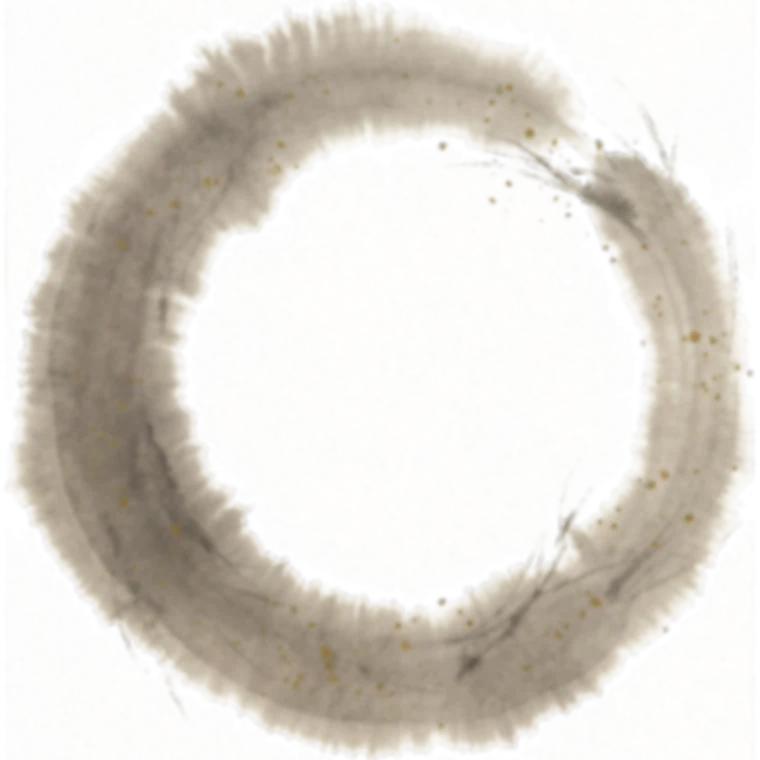
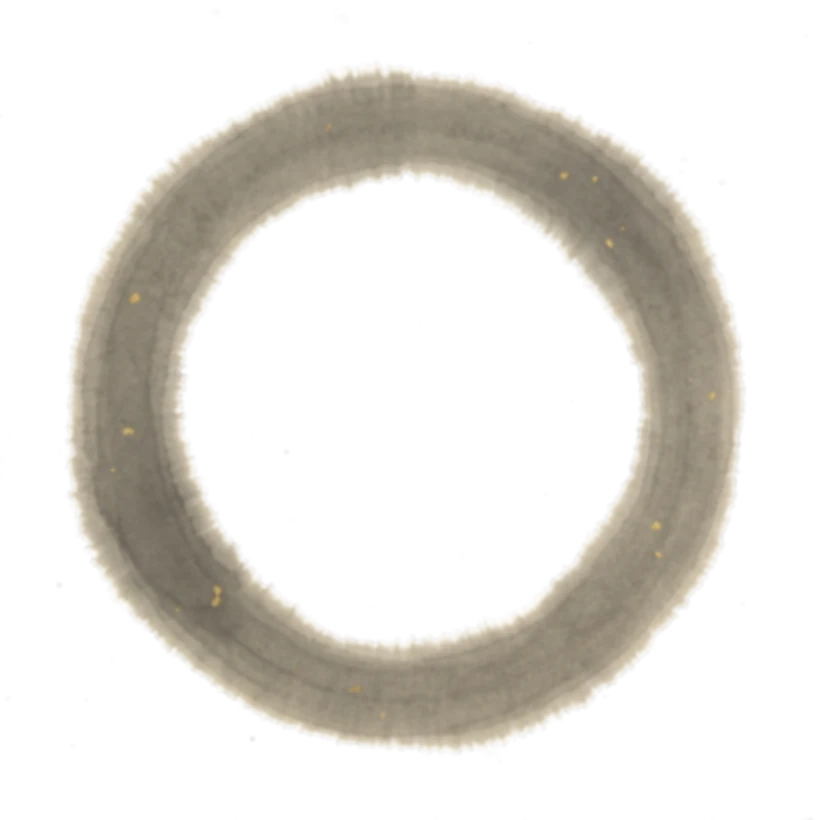
Hub redesign: 3-column layout — reach steps, Asian column divider, globe right
- New three-column layout: left = 217 Products logo + numbered reach steps
  (1/2/3) each with a straight HGF sumi brush arrow (assets/reach-arrow-
  straight.webp) and label; centre = an HGF East-Asian temple column
  divider (assets/hub-column.webp); right = the enlarged 3D globe.
- Removed scroll pinning earlier; globe auto-rotates and is drag-spun.
- Halo regenerated complete + denser and made more opaque so it wraps the
  whole globe (fixes the open right side).
- Steps reveal staggered on enter; mobile stacks (panel then globe, column
  divider hidden).

diff --git a/style.css b/style.css
@@ -158,22 +158,39 @@ section { padding: clamp(96px, 15vh, 210px) var(--pad); position: relative; }
 }
 .brighten .w { color: var(--ink-dim); transition: color 0.1s linear; }
 
-/* ---------- 4 · pinned globe (our reach) ---------- */
+/* ---------- 4 · globe · our reach (3-column) ---------- */
 .hub { padding: 0; }
-.hub-pin {
-  position: relative; height: 100svh; min-height: 600px;
-  display: flex; flex-direction: column; align-items: center; justify-content: center;
-  gap: clamp(22px, 4.4vh, 58px); overflow: hidden;
+.hub-grid {
+  position: relative; min-height: 100svh;
+  display: grid; grid-template-columns: minmax(0, 1fr) auto minmax(0, 1.05fr);
+  align-items: center; gap: clamp(24px, 4vw, 72px);
+  padding: clamp(96px, 13vh, 150px) var(--pad);
 }
 .hub-eyebrow { position: relative; z-index: 3; }
 
-.globe-stage { position: relative; width: min(72vw, 52vh, 468px); aspect-ratio: 1; }
-.globe-halo { /* HGF sumi ink-wash halo behind the globe, separates it from the page */
-  position: absolute; z-index: 0; top: 49%; left: 50%; width: 156%; height: 156%; max-width: none;
-  transform: translate(-50%, -50%); pointer-events: none; opacity: 0.6;
+/* left panel — logo + numbered reach steps */
+.reach-panel { justify-self: end; max-width: 440px; display: flex; flex-direction: column; gap: clamp(20px, 3.2vh, 38px); }
+.reach-logo { width: clamp(150px, 15vw, 208px); height: auto; }
+.reach-steps { list-style: none; display: flex; flex-direction: column; gap: clamp(15px, 2.6vh, 28px); }
+.rstep { display: flex; align-items: center; gap: clamp(12px, 1.4vw, 20px); }
+.rnum { font-family: "Shippori Mincho", Georgia, serif; font-weight: 800; font-size: clamp(30px, 3.4vw, 46px); line-height: 1; color: var(--gold-deep); }
+.rarrow { width: clamp(46px, 5vw, 76px); height: auto; flex: none; }
+.rtext { font-family: "Shippori Mincho", Georgia, serif; font-weight: 700; font-size: clamp(16px, 1.7vw, 22px); color: var(--ink); }
+.reach-foot { font-family: "Shippori Mincho", Georgia, serif; font-size: clamp(15px, 1.5vw, 19px); color: var(--ink-2); }
+
+/* center divider column (HGF) */
+.hub-divider { align-self: stretch; display: flex; align-items: center; justify-content: center; }
+.hub-column { height: min(76vh, 640px); width: auto; max-width: none; object-fit: contain; }
+
+/* right panel — enlarged globe */
+.globe-panel { justify-self: start; }
+.globe-stage { position: relative; width: min(46vw, 62vh, 560px); aspect-ratio: 1; }
+.globe-halo { /* HGF sumi ink-wash halo behind the globe */
+  position: absolute; z-index: 0; top: 50%; left: 50%; width: 152%; height: 152%; max-width: none;
+  transform: translate(-50%, -50%); pointer-events: none; opacity: 0.82;
 }
 .globe-stage::before { /* soft contact shadow under the globe */
-  content: ""; position: absolute; z-index: 0; left: 50%; top: 84%; width: 52%; height: 8%;
+  content: ""; position: absolute; z-index: 0; left: 50%; top: 86%; width: 52%; height: 8%;
   transform: translateX(-50%); pointer-events: none;
   background: radial-gradient(closest-side, rgba(30,26,22,0.18), transparent 78%);
 }
@@ -182,33 +199,9 @@ section { padding: clamp(96px, 15vh, 210px) var(--pad); position: relative; }
 .globe-fallback { width: 100%; height: 100%; filter: drop-shadow(0 26px 54px rgba(30,26,22,0.18)); }
 .globe-canvas.gl-ok .globe-fallback { display: none; }
 
-/* HGF brush-stroke reach arrows + labels (overflow the stage) */
-.reach-arrow {
-  position: absolute; z-index: 4; width: 32%; height: auto; pointer-events: none;
-  transform-origin: left center; filter: drop-shadow(0 3px 6px rgba(30,26,22,0.14));
-}
-.ra-1 { left: 86%; top: 19%; transform: rotate(-13deg); }
-.ra-2 { left: 89%; top: 50%; transform: rotate(0deg); }
-.ra-3 { left: 86%; top: 81%; transform: rotate(13deg); }
-.reach-label {
-  position: absolute; z-index: 5; white-space: nowrap;
-  font-family: "Shippori Mincho", Georgia, serif; font-weight: 700;
-  font-size: clamp(13px, 1.5vw, 19px); color: var(--ink); text-shadow: 0 1px 2px rgba(243,236,220,0.9);
-}
-.rl-1 { left: 122%; top: 13%; transform: translateY(-50%); }
-.rl-2 { left: 124%; top: 50%; transform: translateY(-50%); }
-.rl-3 { left: 122%; top: 87%; transform: translateY(-50%); }
-
-/* JS-driven reveal — brush arrows paint in tail→tip; labels fade (no-JS shows all) */
-.js-hub .reach-arrow { opacity: 0; clip-path: inset(0 100% 0 0); transition: opacity 0.4s ease, clip-path 0.72s cubic-bezier(0.22, 1, 0.36, 1); }
-.js-hub .reach-label { opacity: 0; transition: opacity 0.5s ease 0.22s; }
-.js-hub .globe-stage.on1 .ra-1, .js-hub .globe-stage.on2 .ra-2, .js-hub .globe-stage.on3 .ra-3 { opacity: 1; clip-path: inset(0 0 0 0); }
-.js-hub .globe-stage.on1 .rl-1, .js-hub .globe-stage.on2 .rl-2, .js-hub .globe-stage.on3 .rl-3 { opacity: 1; }
-
-/* mobile stacked list (shown only on narrow screens) */
-.reach-list { display: none; list-style: none; }
-
-.hub-caption { text-align: center; font-family: "Shippori Mincho", Georgia, serif; font-size: clamp(20px, 2.8vw, 36px); line-height: 1.3; color: var(--ink); position: relative; z-index: 3; }
+/* JS reveal — numbered steps fade + slide in, staggered (no-JS shows all) */
+.js-hub .rstep { opacity: 0; transform: translateX(-14px); transition: opacity 0.5s ease, transform 0.6s cubic-bezier(0.22, 1, 0.36, 1); }
+.js-hub .reach-steps.on1 .rstep-1, .js-hub .reach-steps.on2 .rstep-2, .js-hub .reach-steps.on3 .rstep-3 { opacity: 1; transform: none; }
 
 /* ---------- 5 · products ---------- */
 .products { max-width: var(--maxw); margin: 0 auto; }
@@ -310,7 +303,7 @@ html, body { max-width: 100%; overflow-x: hidden; }
 /* small-viewport-unit fallback (older iOS / Android) */
 @supports not (height: 100svh) {
   .hero { min-height: 100vh; }
-  .hub-pin { height: 100vh; }
+  .hub-grid { min-height: 100vh; }
   .craft { min-height: 92vh; }
   .final { min-height: 88vh; }
 }
@@ -321,6 +314,12 @@ html, body { max-width: 100%; overflow-x: hidden; }
   /* portrait crop that keeps the torii + valley in frame */
   .hero-scene .pl { object-position: 32% 46%; }
   .section-seal { font-size: clamp(80px, 22vw, 180px); }
+  /* hub stacks: content, then globe; the vertical column divider is hidden */
+  .hub-grid { grid-template-columns: 1fr; justify-items: center; gap: clamp(34px, 6vh, 60px); min-height: auto; }
+  .hub-divider { display: none; }
+  .reach-panel { justify-self: center; align-items: flex-start; max-width: 460px; }
+  .globe-panel { justify-self: center; order: 1; }
+  .globe-stage { width: min(72vw, 46vh, 420px); }
 }
 
 /* ---------- phones ---------- */
@@ -333,16 +332,9 @@ html, body { max-width: 100%; overflow-x: hidden; }
   .final .display.big { font-size: clamp(37px, 10.6vw, 58px); }
   .brighten { font-size: clamp(20px, 5.8vw, 29px); max-width: 100%; }
   .product h3 { font-size: clamp(42px, 12.6vw, 68px); }
-  /* phone: hide side arrows; show the reach as a centered stacked list */
-  .globe-stage { width: min(62vw, 40vh, 300px); }
-  .reach-arrow, .reach-label { display: none; }
-  .reach-list { display: flex; flex-direction: column; gap: 13px; align-items: flex-start; margin-top: 2px; }
-  .reach-list .rli { font-family: "Shippori Mincho", Georgia, serif; font-weight: 700; font-size: 16px; color: var(--ink); position: relative; padding-left: 24px; }
-  .reach-list .rli::before { content: ""; position: absolute; left: 0; top: 50%; transform: translateY(-50%); width: 9px; height: 9px; border-radius: 50%; background: var(--vermilion); }
-  .js-hub .reach-list .rli { opacity: 0; transition: opacity 0.5s ease; }
-  .js-hub .globe-stage.on1 ~ .reach-list .rli-1,
-  .js-hub .globe-stage.on2 ~ .reach-list .rli-2,
-  .js-hub .globe-stage.on3 ~ .reach-list .rli-3 { opacity: 1; }
+  .globe-stage { width: min(76vw, 44vh, 340px); }
+  .rnum { font-size: 34px; }
+  .rtext { font-size: 17px; }
   .marquee-row span { font-size: 15px; }
   .marquee-row { gap: 20px; }
   .stats { grid-template-columns: 1fr 1fr; gap: 32px 18px; }

diff --git a/index.html b/index.html
@@ -20,7 +20,7 @@
   <link rel="preconnect" href="https://fonts.googleapis.com">
   <link rel="preconnect" href="https://fonts.gstatic.com" crossorigin>
   <link href="https://fonts.googleapis.com/css2?family=Manrope:wght@400;500;600;700;800&family=Shippori+Mincho:wght@500;600;700;800&display=swap" rel="stylesheet">
-  <link rel="stylesheet" href="style.css?v=23">
+  <link rel="stylesheet" href="style.css?v=24">
 </head>
 <body>
 
@@ -86,26 +86,26 @@
 
     <!-- 4 · GLOBE — our reach (auto-rotate + drag) -->
     <section class="hub" id="hub">
-      <div class="hub-pin">
+      <div class="hub-grid">
+        <div class="reach-panel">
           <p class="hub-eyebrow eyebrow">世界 · OUR REACH</p>
+          <img class="reach-logo" src="assets/logo-full.svg" alt="217 Products" width="220" height="220">
+          <ul class="reach-steps">
+            <li class="rstep rstep-1"><span class="rnum">1</span><img class="rarrow" src="assets/reach-arrow-straight.webp?u=1" alt="" aria-hidden="true" loading="lazy" decoding="async"><span class="rtext">Rooted in Ankara</span></li>
+            <li class="rstep rstep-2"><span class="rnum">2</span><img class="rarrow" src="assets/reach-arrow-straight.webp?u=1" alt="" aria-hidden="true" loading="lazy" decoding="async"><span class="rtext">Reaching the world</span></li>
+            <li class="rstep rstep-3"><span class="rnum">3</span><img class="rarrow" src="assets/reach-arrow-straight.webp?u=1" alt="" aria-hidden="true" loading="lazy" decoding="async"><span class="rtext">Growing every season</span></li>
+          </ul>
+          <p class="reach-foot">From one small studio, growing <span class="gold">outward</span>.</p>
+        </div>
+        <div class="hub-divider" aria-hidden="true"><img class="hub-column" src="assets/hub-column.webp?u=1" alt="" loading="lazy" decoding="async"></div>
+        <div class="globe-panel">
           <div class="globe-stage">
-            <img class="globe-halo" src="assets/globe-halo.webp?u=3" alt="" aria-hidden="true" loading="lazy" decoding="async">
+            <img class="globe-halo" src="assets/globe-halo.webp?u=4" alt="" aria-hidden="true" loading="lazy" decoding="async">
             <div id="globe3d" class="globe-canvas" role="img" aria-label="A rotating sumi-e ink globe of the world — drag to spin it">
               <img class="globe-fallback" src="assets/globe.webp?u=1" alt="" width="760" height="760" loading="lazy" decoding="async">
             </div>
-            <img class="reach-arrow ra-1" src="assets/reach-arrow.webp?u=1" alt="" aria-hidden="true" loading="lazy" decoding="async">
-            <img class="reach-arrow ra-2" src="assets/reach-arrow.webp?u=1" alt="" aria-hidden="true" loading="lazy" decoding="async">
-            <img class="reach-arrow ra-3" src="assets/reach-arrow.webp?u=1" alt="" aria-hidden="true" loading="lazy" decoding="async">
-            <span class="reach-label rl-1">Rooted in Ankara</span>
-            <span class="reach-label rl-2">Reaching the world</span>
-            <span class="reach-label rl-3">Growing every season</span>
           </div>
-          <ul class="reach-list" aria-hidden="true">
-            <li class="rli rli-1">Rooted in Ankara</li>
-            <li class="rli rli-2">Reaching the world</li>
-            <li class="rli rli-3">Growing every season</li>
-          </ul>
-          <p class="hub-caption">From one small studio,<br>growing <span class="gold">outward</span>.</p>
+        </div>
       </div>
     </section>
 
@@ -217,6 +217,6 @@
   <script src="https://cdn.jsdelivr.net/npm/lenis@1.3.25/dist/lenis.min.js" integrity="sha384-ClD7pCgIUz5M81HT8aZmMxCsWmfsycmBiwL5gy1pUbdWHvICIbea22N9sTtAFotA" crossorigin="anonymous"></script>
   <script src="https://cdn.jsdelivr.net/npm/three@0.160.1/build/three.min.js" integrity="sha384-qOkzR5Ke/XkQxuGVJ9hpFEpDlcoLtWwVYhnJf06cLIZa2vaIptSqaubivErzmD5O" crossorigin="anonymous"></script>
   <script src="globe3d.js?v=5"></script>
-  <script src="main.js?v=18"></script>
+  <script src="main.js?v=19"></script>
 </body>
 </html>

diff --git a/main.js b/main.js
@@ -133,18 +133,18 @@
   /* ---------- globe reach callouts: revealed once, staggered, as the section enters ----------
      The globe itself just auto-rotates (and can be dragged) — no scroll pinning. */
   var hub = document.querySelector(".hub");
-  var globeStage = document.querySelector(".globe-stage");
-  if (hub && globeStage) {
+  var reachSteps = document.querySelector(".reach-steps");
+  if (hub && reachSteps) {
     hub.classList.add("js-hub");
     function setReach(n) {
-      globeStage.classList.toggle("on1", n >= 1);
-      globeStage.classList.toggle("on2", n >= 2);
-      globeStage.classList.toggle("on3", n >= 3);
+      reachSteps.classList.toggle("on1", n >= 1);
+      reachSteps.classList.toggle("on2", n >= 2);
+      reachSteps.classList.toggle("on3", n >= 3);
     }
-    ScrollTrigger.create({ trigger: ".hub", start: "top 64%", once: true, onEnter: function () {
+    ScrollTrigger.create({ trigger: ".hub", start: "top 62%", once: true, onEnter: function () {
       setReach(1);
-      gsap.delayedCall(0.45, function () { setReach(2); });
-      gsap.delayedCall(0.90, function () { setReach(3); });
+      gsap.delayedCall(0.35, function () { setReach(2); });
+      gsap.delayedCall(0.70, function () { setReach(3); });
     }});
   }
 